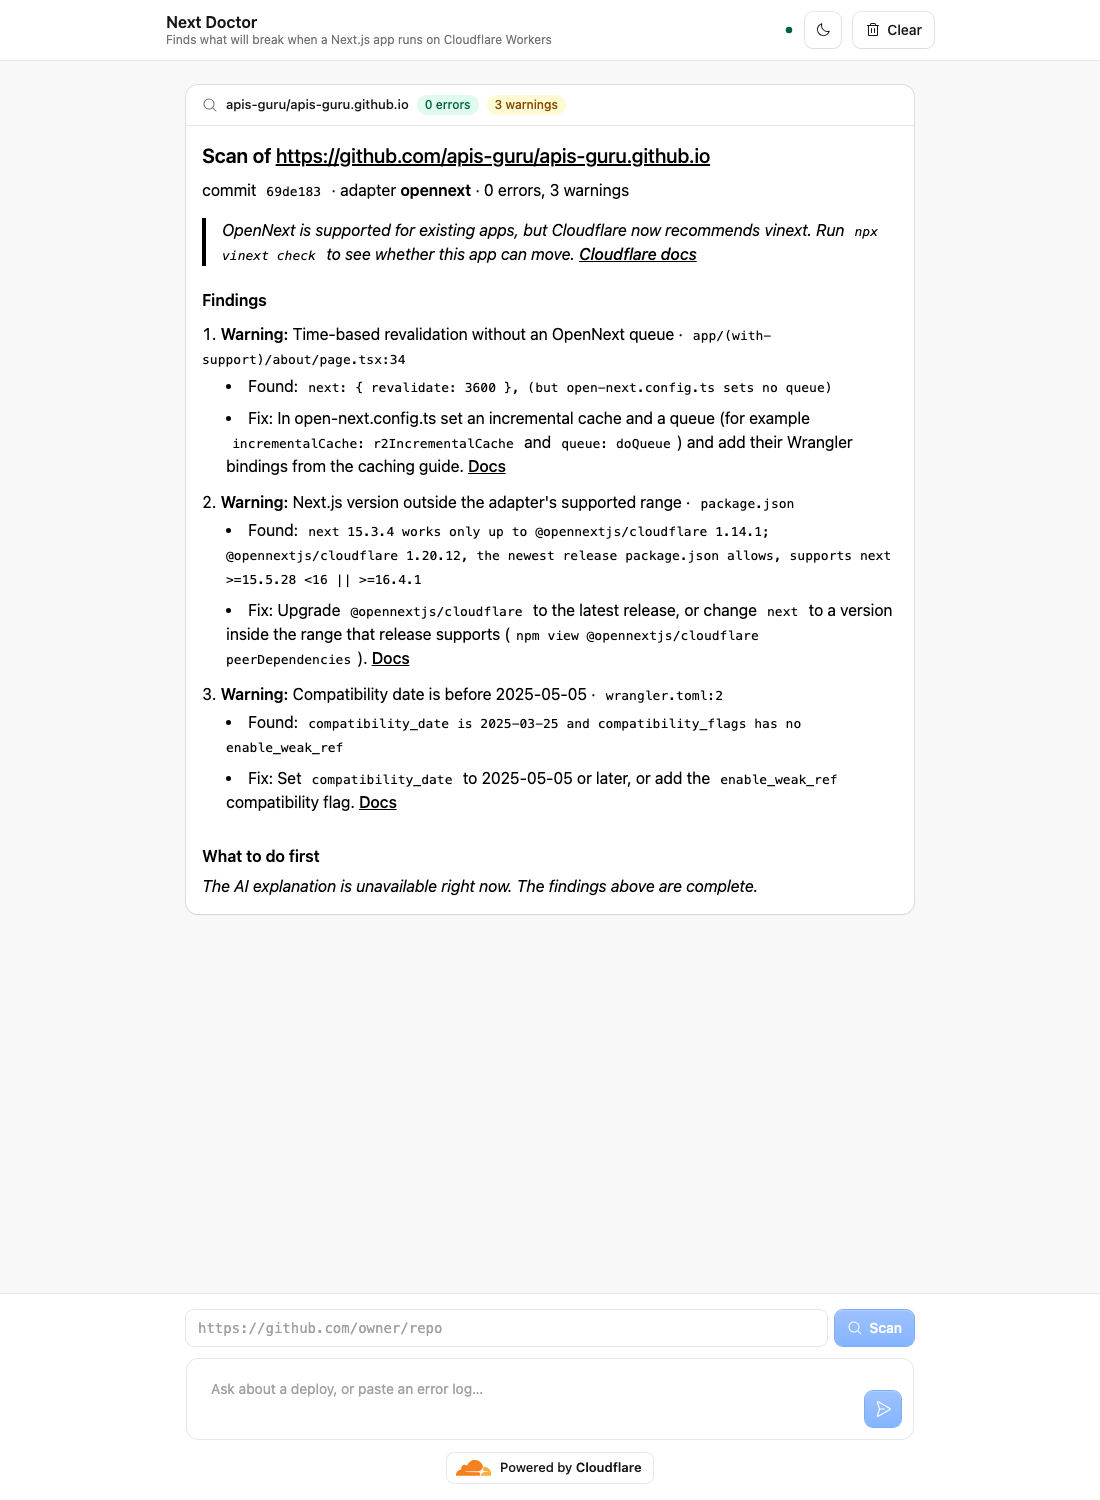
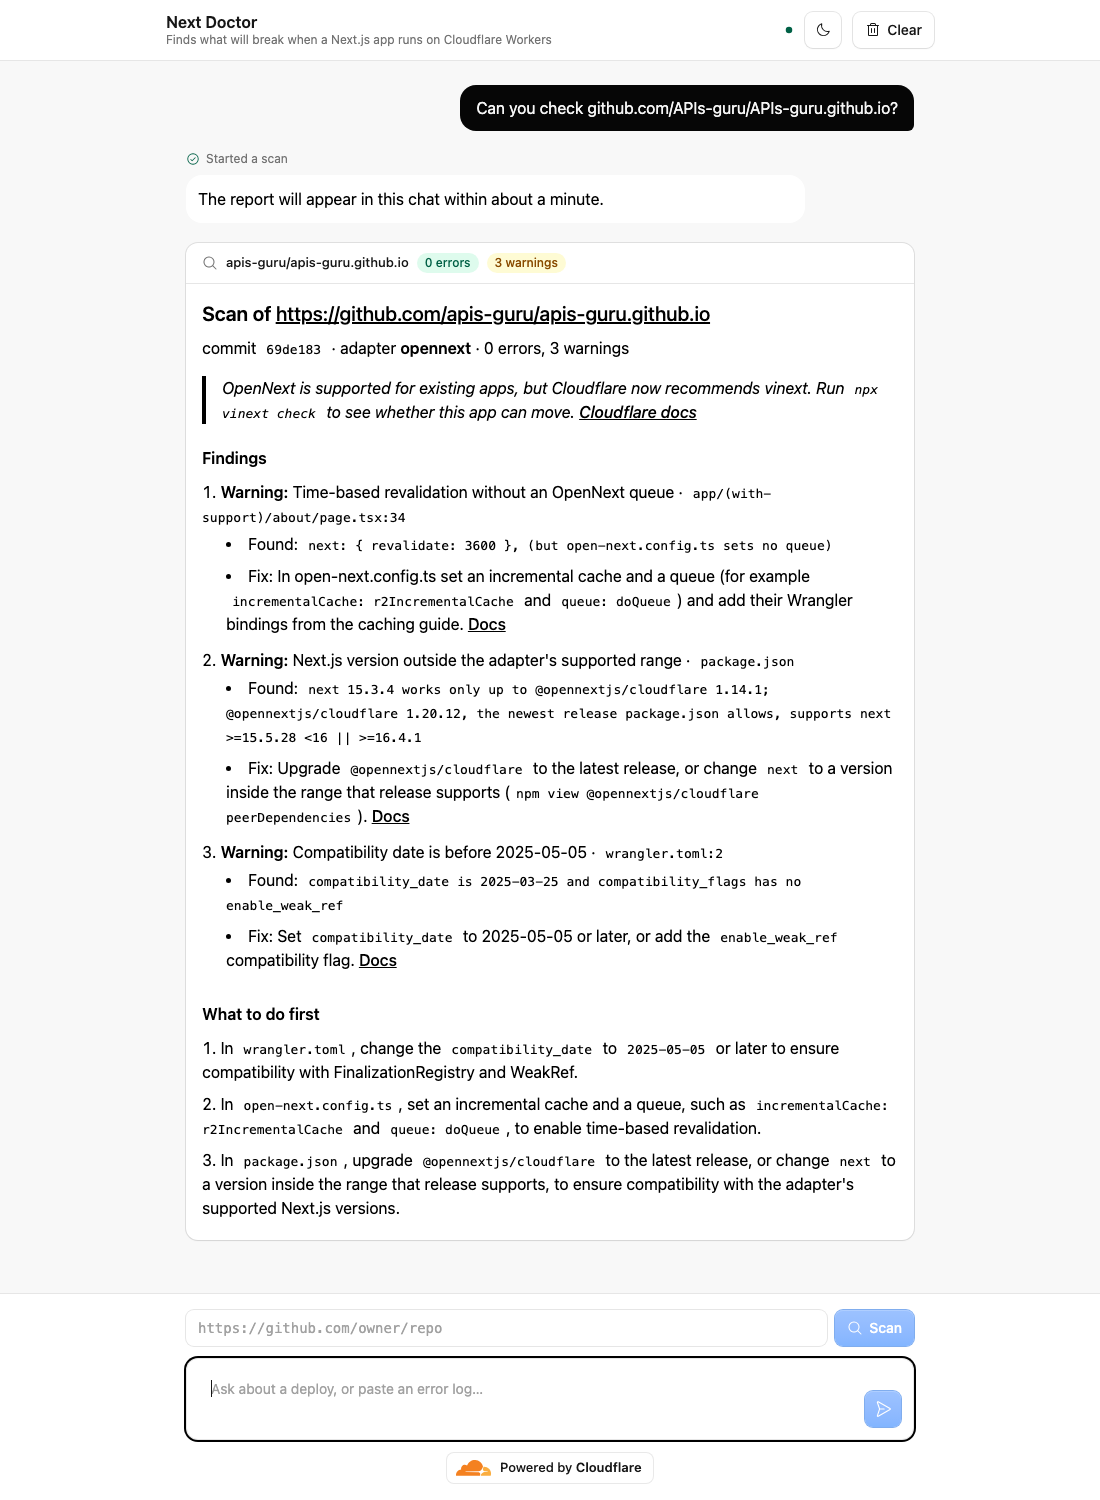
Show a real Llama 3.3 run in the README
The screenshot is now a live run on Workers AI: the chat asks to check
a repository, the model calls scan_repo, and the report card arrives
with Llama's prioritised fixes, replacing the earlier image taken with
the model switched off. The README lists the non-streamed chat replies
as a known limit, and DECISIONS.md records both fixes found by testing
against the real model.

diff --git a/docs/DECISIONS.md b/docs/DECISIONS.md
@@ -153,3 +153,17 @@ Context: The only logged-in Cloudflare account appears to be a work account. Mea
 Decision: Adi chose not to deploy. The README covers a full local run with `wrangler login`, a run with no account (`CLOUDFLARE_VITE_FORCE_LOCAL=true`), and deployment on Workers Paid.
 Alternatives: Deploy to the work account (wrong owner for a job application); deploy on the free plan (scans would exceed the CPU limit).
 Consequences: Reviewers run it locally. A real end-to-end check with Workers AI is still to be done.
+
+## 2026-10-17 — Ask Workers AI for whole responses in the chat
+
+Context: The first run against the real model failed every tool call. Llama 3.3 called the right tools, but every one received `{}`. The raw stream showed why: Workers AI sends each tool-call fragment twice (in `choices[0].delta.tool_calls` and in a top-level `tool_calls`), and workers-ai-provider 3.3.1 appends both, so the argument JSON is doubled and unparseable. Version 4.0.0 has the same code and needs AI SDK v7.
+Decision: `withoutStreaming()` wraps the AI binding so `run()` always asks for a whole response. The provider reads a whole response through a separate path that takes each tool call once.
+Alternatives: Patch the provider in node_modules (lost on install, unreviewable); re-parse the SSE stream ourselves (more code than the bug); a different model (the assignment suggests Llama 3.3).
+Consequences: Chat replies appear all at once, after a few seconds. The Proxy is one function with a test, so it is simple to remove once the provider is fixed upstream.
+
+## 2026-10-17 — Key the explanation prompt by finding title, not id
+
+Context: In the real run, Llama copied the internal ids (`[next-version-unsupported]`) into its answer, called three warnings "critical errors", and added large headings.
+Decision: The prompt labels facts and locations with each finding's title and its severity in brackets. The rules say to keep each severity and to write a numbered list without headings.
+Alternatives: Only tell the model not to repeat ids (it repeats whatever label it is given).
+Consequences: The next run produced a clean, file-by-file list. Prompt wording is now part of the tested surface (`buildExplainPrompt` tests).

diff --git a/README.md b/README.md
@@ -12,10 +12,10 @@ remove a finding.
 Built for Cloudflare's AI application assignment. The AI prompts used to build it are in
 [PROMPTS.md](PROMPTS.md), and the design decisions in [docs/DECISIONS.md](docs/DECISIONS.md).
 
-![A scan report for a public OpenNext app: three warnings, each with the file, the evidence, the fix and a doc link](docs/screenshot-report.png)
+![A chat asking to check a public OpenNext app: the agent starts a scan, and the report card lists three warnings with file, evidence, fix and docs, followed by Llama 3.3's prioritised fixes](docs/screenshot-report.png)
 
-_The screenshot was taken locally with Workers AI switched off (see "Run without a Cloudflare
-account"), so "What to do first" shows the fallback text instead of Llama 3.3's explanation._
+_A real run: Llama 3.3 on Workers AI called `scan_repo`, the Workflow scanned the repository,
+and the report arrived about 10 seconds later._
 
 ## Run it locally
 
@@ -144,6 +144,10 @@ size limit, removed on 2026-09-04) and are deliberately not checked.
 - **Declared version ranges, not the lockfile.** The version check reasons over every
   release `package.json` allows instead of reading four lockfile formats.
 - **Pasted logs reach the model as typed.** Only quoted lines are redacted.
+- **Chat replies arrive whole, not word by word.** workers-ai-provider 3.3.1 reads every
+  streamed tool-call fragment from Workers AI twice, which corrupts tool arguments, so the
+  chat asks for whole responses ([src/workers-ai.ts](src/workers-ai.ts)). With a fixed
+  provider, streaming can come back.
 
 ## Credits
 
